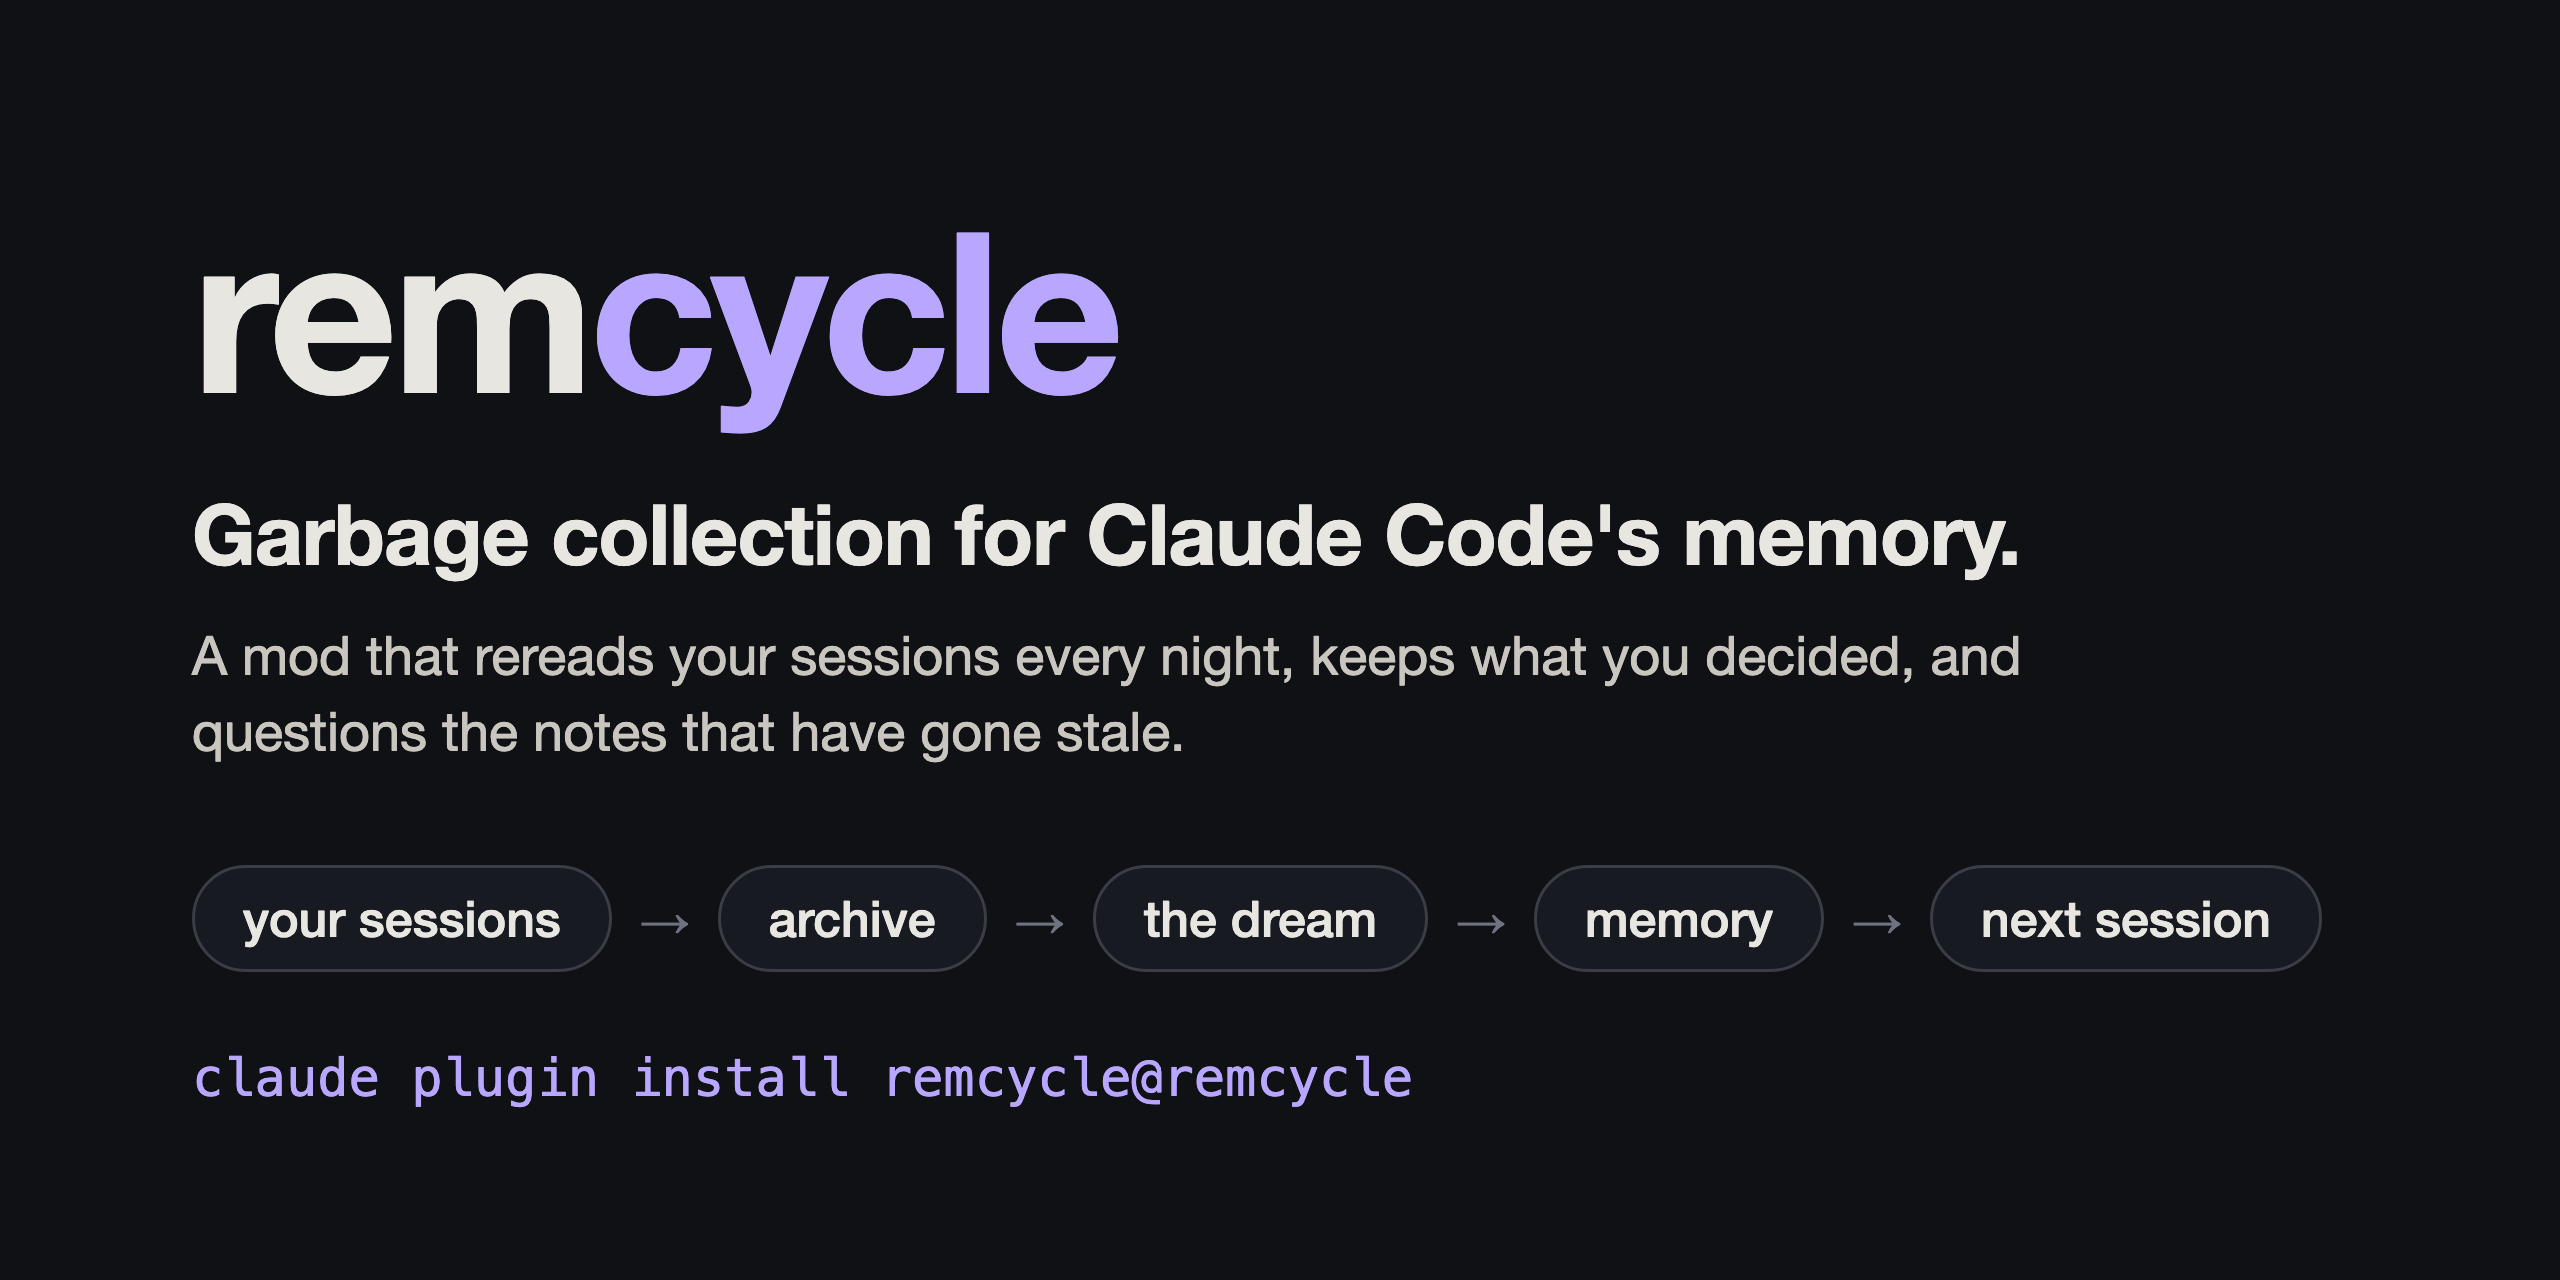
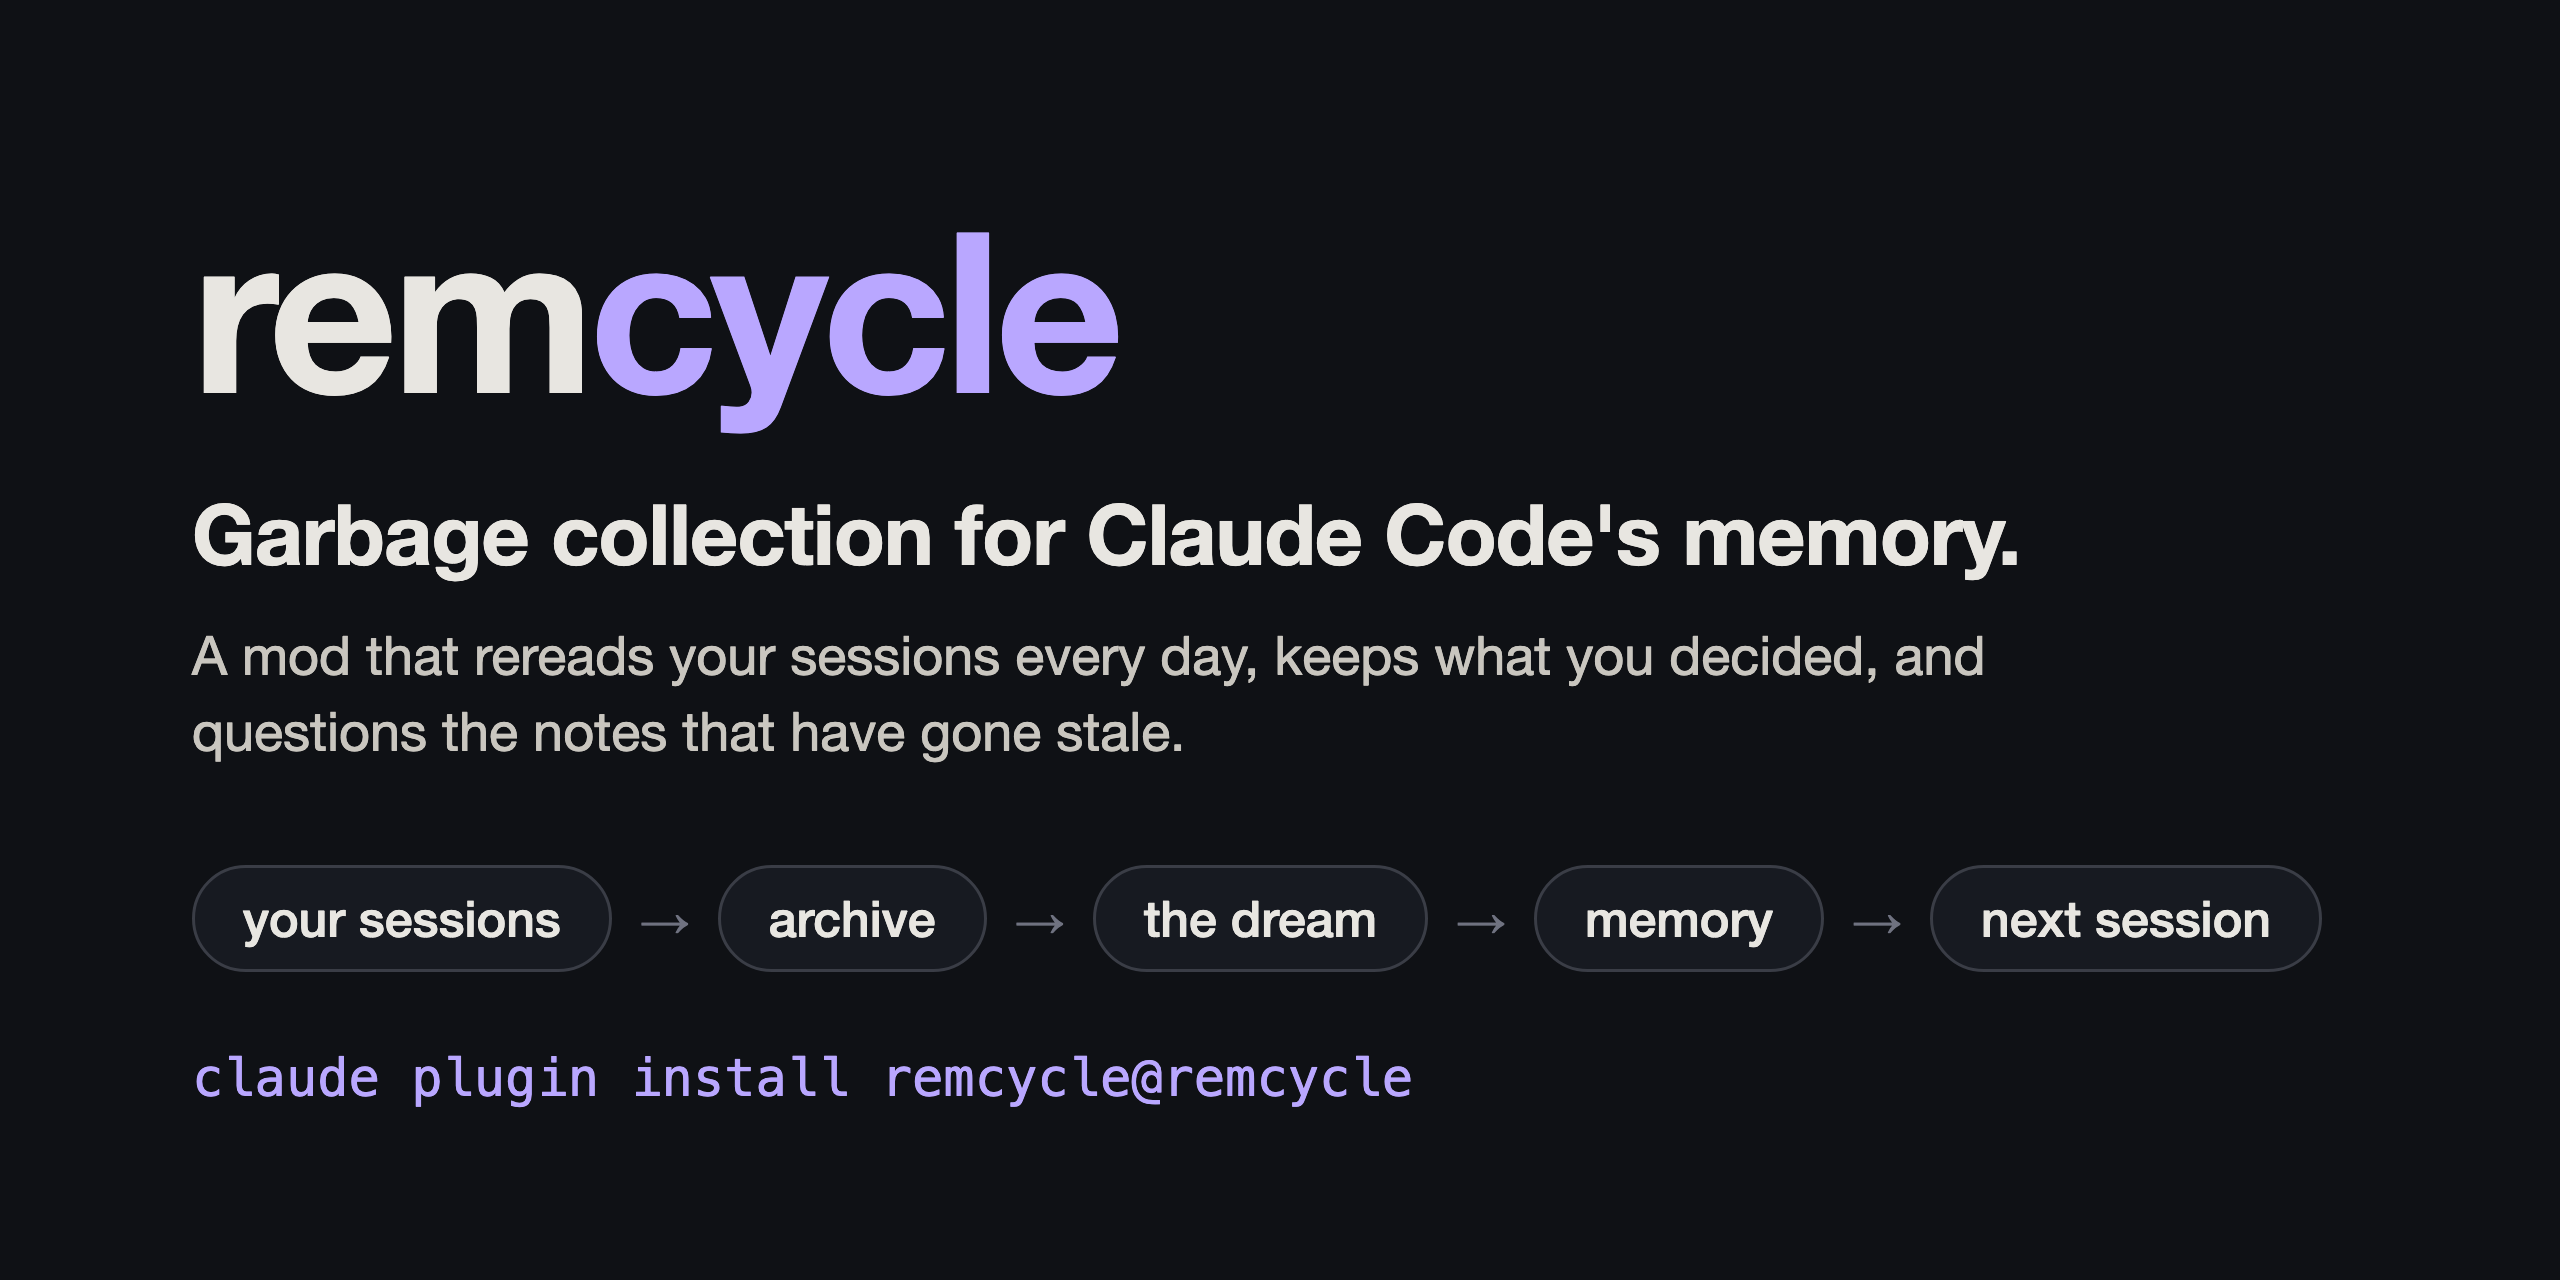
docs: say the dream runs once a day, not every night
The daily dream starts from the first session after 20 hours, usually at
the start of the day, so "every night" and "while you are away" no
longer describe it. The README's header picture, its opening and its
diagram, how-it-works, the design notes' intent, the mod's README and
both descriptions now say once a day. The sessions after a run start
knowing what it learned.

Changed region(s): [[0.4375, 0.5, 0.8125, 0.5312]]

diff --git a/README.md b/README.md
@@ -1,5 +1,5 @@
 <p align="center">
-  <img src="docs/images/header.png" alt="remcycle. Garbage collection for Claude Code's memory. A mod that rereads your sessions every night, keeps what you decided, and questions the notes that have gone stale." width="100%">
+  <img src="docs/images/header.png" alt="remcycle. Garbage collection for Claude Code's memory. A mod that rereads your sessions every day, keeps what you decided, and questions the notes that have gone stale." width="100%">
 </p>
 
 <p align="center">
@@ -14,7 +14,7 @@
 
 <p align="center"><sub>The shop project in the pictures is made up.</sub></p>
 
-Claude Code starts every session fresh, and the notes it keeps about your projects pile up until the old ones are wrong. remcycle keeps everything you and Claude said, and while you are away it reads the new sessions, keeps what you actually decided, and questions the rest. The next session starts knowing it.
+Claude Code starts every session fresh, and the notes it keeps about your projects pile up until the old ones are wrong. remcycle keeps everything you and Claude said, and once a day it reads the new sessions in the background, keeps what you actually decided, and questions the rest. The sessions after that start knowing it.
 
 - **Sessions that start informed.** Each new session is handed what you have said applies to all your work, what was learned about the project, and what earlier sessions left unfinished.
 - **Memory you can trust.** Every memory points at the words it came from. Something only Claude concluded is never loaded as if you had said it, and a note you already had is never replaced without asking you.
@@ -71,7 +71,7 @@ Type `/remcycle` in any session.
 flowchart LR
     work(["You and<br/>Claude Code"])
     archive[("Archive<br/>word for word")]
-    dream{{"The dream<br/>while you are away"}}
+    dream{{"The dream<br/>once a day"}}
     memory["Memory<br/>short, sourced notes"]
     work -- "saved" --> archive
     archive -- "what is new" --> dream

diff --git a/docs/intent.md b/docs/intent.md
@@ -4,7 +4,7 @@ Status: agreed 2026-10-05. Build has started with the archive (see [Build order]
 
 ## Intent
 
-Claude Code on this machine learns from its own sessions overnight. Each night it reviews the day's work, reconciles it against what earlier sessions established, and keeps what was done and what was decided, each with its reason and a pointer back to the session it came from. Finished sessions leave the sidebar but stay recallable through a compact record. You can open a view of what Claude believes, see where each belief came from, and correct it.
+Claude Code on this machine learns from its own sessions once a day. Each day it reviews the latest work, reconciles it against what earlier sessions established, and keeps what was done and what was decided, each with its reason and a pointer back to the session it came from. Finished sessions leave the sidebar but stay recallable through a compact record. You can open a view of what Claude believes, see where each belief came from, and correct it.
 
 The overriding constraint is context rot: stale, redundant or contradictory material must not accumulate in what the model reads.
 

diff --git a/docs/how-it-works.md b/docs/how-it-works.md
@@ -2,7 +2,7 @@
 
 Claude Code starts every session fresh. It has a memory folder for each project, but the notes in it are written in the moment, nobody checks them against each other, and they pile up until the oldest are wrong and the list is too long to load.
 
-remcycle gives that memory a night shift. It keeps everything you and Claude said, and while you are away it reads the new sessions, keeps what you actually decided, and throws out or questions the rest.
+remcycle gives that memory a daily clear-out. It keeps everything you and Claude said, and once a day it reads the new sessions, keeps what you actually decided, and throws out or questions the rest.
 
 ## The loop
 
@@ -10,7 +10,7 @@ remcycle gives that memory a night shift. It keeps everything you and Claude sai
 flowchart LR
     work(["You and<br/>Claude Code"])
     archive[("Archive<br/>word for word")]
-    dream{{"The dream<br/>while you are away"}}
+    dream{{"The dream<br/>once a day"}}
     memory["Memory<br/>short, sourced notes"]
     work -- "saved" --> archive
     archive -- "what is new" --> dream

diff --git a/mod/README.md b/mod/README.md
@@ -1,6 +1,6 @@
 # The remcycle mod
 
-The part of [remcycle](https://github.com/lianmatsuo/remcycle) that runs inside Claude Code. remcycle is garbage collection for Claude Code's memory: every night it rereads your sessions, keeps what you decided, and questions the notes that have gone stale.
+The part of [remcycle](https://github.com/lianmatsuo/remcycle) that runs inside Claude Code. remcycle is garbage collection for Claude Code's memory: once a day it rereads your sessions, keeps what you decided, and questions the notes that have gone stale.
 
 ## What it does
 
